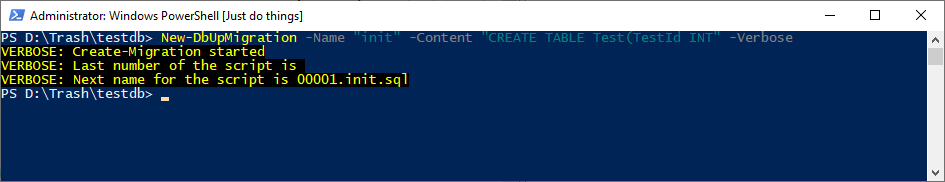
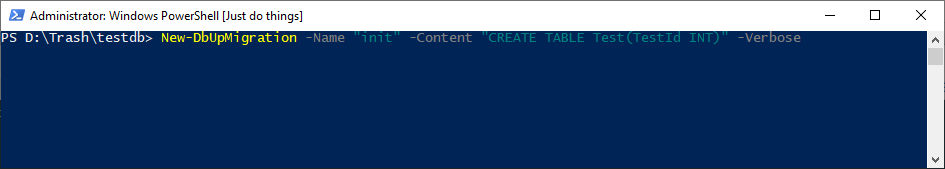
readme

diff --git a/README.md b/README.md
@@ -23,7 +23,7 @@ Module exposes cmdlet which help in creating the new migration. When executed in
 ![New migration](Images/NewMigration.png)
 
 ```PowerShell
-New-DbUpMigration -Name "init" -Content "CREATE TABLE Test(TestId INT" -Verbose
+New-DbUpMigration -Name "init" -Content "CREATE TABLE Test(TestId INT)" -Verbose
 ```
 
 Above command will create in directory SQL file with provided content.
